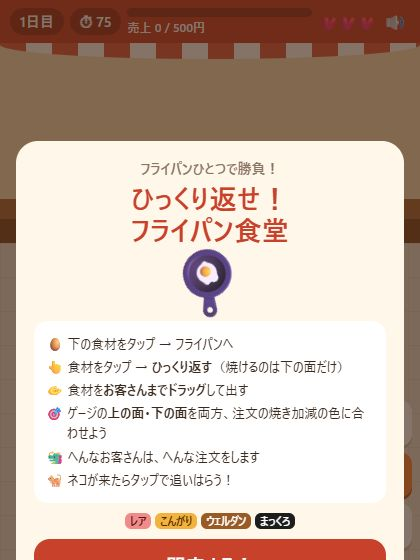
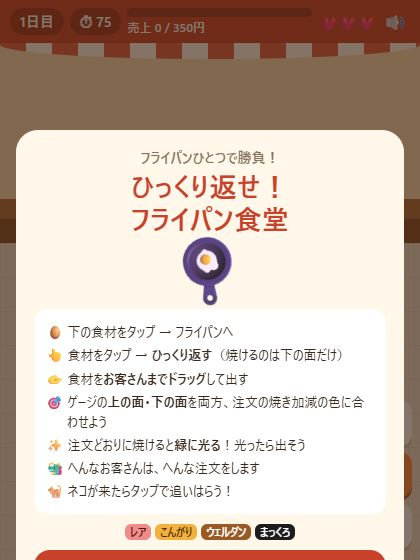
自動公開 / 更新: ひっくり返せ！フライパン食堂

Changed region(s): [[0.031, 0.2125, 0.9595, 1.0]]

diff --git a/apps/hikkuri-frypan/index.html b/apps/hikkuri-frypan/index.html
@@ -78,7 +78,7 @@ button{font-family:inherit;color:inherit;border:0;background:none;cursor:pointer
 .bars{width:96%;margin-top:3px;display:flex;flex-direction:column;gap:2px}
 .br{display:flex;align-items:center;gap:2px;font-size:9px;font-weight:900;color:#fff}
 .br b{width:11px;text-align:center;flex:none}
-.bar{position:relative;flex:1;height:7px;border-radius:4px;background:linear-gradient(90deg,#f4e7cc 0 21.4%,#ef8b8b 21.4% 35.7%,#bfb3a3 35.7% 39.3%,#f3b23d 39.3% 57.1%,#bfb3a3 57.1% 60%,#9a5a26 60% 75.7%,#6e6258 75.7% 84.3%,#111 84.3%);box-shadow:0 0 0 1px rgba(255,255,255,.35)}
+.bar{position:relative;flex:1;height:7px;border-radius:4px;background:linear-gradient(90deg,#f4e7cc 0 17.9%,#ef8b8b 17.9% 37.1%,#f3b23d 37.1% 58.6%,#9a5a26 58.6% 78.6%,#6e6258 78.6% 80%,#111 80%);box-shadow:0 0 0 1px rgba(255,255,255,.35)}
 .bar .m{position:absolute;top:-3px;width:3px;height:13px;margin-left:-1.5px;background:#fff;border-radius:2px;box-shadow:0 0 0 1px #000}
 .br.hot b{color:#ffb347}
 
@@ -184,6 +184,7 @@ button{font-family:inherit;color:inherit;border:0;background:none;cursor:pointer
         <li>👆 食材をタップ → <b>ひっくり返す</b>（焼けるのは下の面だけ）</li>
         <li>🫴 食材を<b>お客さんまでドラッグ</b>して出す</li>
         <li>🎯 ゲージの<b>上の面・下の面</b>を両方、注文の焼き加減の色に合わせよう</li>
+        <li>✨ 注文どおりに焼けると<b>緑に光る</b>！光ったら出そう</li>
         <li>🐲 へんなお客さんは、へんな注文をします</li>
         <li>🐈 ネコが来たらタップで追いはらう！</li>
       </ul>
@@ -211,17 +212,17 @@ const HEAT = [0.55, 1, 1.7];
 const SKEY = 'hikkuri-frypan';
 
 const ZONES = {
-  rare: { n: 'レア', lo: 30, hi: 50, c: '#ef8b8b', t: '#5a1414' },
-  mid: { n: 'こんがり', lo: 55, hi: 80, c: '#f3b23d', t: '#4a2a00' },
-  well: { n: 'ウェルダン', lo: 84, hi: 106, c: '#9a5a26', t: '#fff' },
-  char: { n: 'まっくろ', lo: 118, hi: 140, c: '#1d1d1d', t: '#fff' },
+  rare: { n: 'レア', lo: 25, hi: 52, c: '#ef8b8b', t: '#5a1414' },
+  mid: { n: 'こんがり', lo: 52, hi: 82, c: '#f3b23d', t: '#4a2a00' },
+  well: { n: 'ウェルダン', lo: 82, hi: 110, c: '#9a5a26', t: '#fff' },
+  char: { n: 'まっくろ', lo: 112, hi: 140, c: '#1d1d1d', t: '#fff' },
 };
 const FOODS = {
-  egg: { e: '🍳', n: '目玉焼き', rate: 13, price: 120, from: 1 },
-  pancake: { e: '🥞', n: 'ホットケーキ', rate: 10, price: 150, from: 1 },
-  gyoza: { e: '🥟', n: 'ギョーザ', rate: 15, price: 180, from: 2 },
-  steak: { e: '🥩', n: 'ステーキ', rate: 8, price: 300, from: 3 },
-  bacon: { e: '🥓', n: 'ベーコン', rate: 20, price: 140, from: 4 },
+  egg: { e: '🍳', n: '目玉焼き', rate: 10, price: 120, from: 1 },
+  pancake: { e: '🥞', n: 'ホットケーキ', rate: 8, price: 150, from: 1 },
+  gyoza: { e: '🥟', n: 'ギョーザ', rate: 12, price: 180, from: 2 },
+  steak: { e: '🥩', n: 'ステーキ', rate: 7, price: 300, from: 3 },
+  bacon: { e: '🥓', n: 'ベーコン', rate: 15, price: 140, from: 4 },
 };
 const CUST = [
   { e: '👦', n: '腹ペコ少年', want: ['mid'], line: ['こんがりで！', 'おなかすいた〜', 'はやくはやく！'], pay: 1, from: 1 },
@@ -240,8 +241,7 @@ const PERKS = [
   { id: 'tea', e: '🍵', n: 'お茶サービス', d: 'お客さんが30%長く待ってくれる', once: true },
   { id: 'smile', e: '😁', n: '笑顔の接客', d: 'パーフェクト時のチップ +40%', },
   { id: 'price', e: '💴', n: 'ねあげ', d: '全メニュー +15%', },
-  { id: 'bell', e: '🔔', n: 'ネコよけの鈴', d: 'ネコがあまり来なくなる', once: true, min: 1 },
-  { id: 'eye', e: '👀', n: 'プロの目', d: '注文どおりに焼けた食材が緑に光る', once: true },
+  { id: 'bell', e: '🔔', n: 'ネコよけの鈴', d: 'ネコがあまり来なくなる', once: true, min: 2 },
   { id: 'heart', e: '💖', n: '常連さん', d: '評判ハートの上限 +1（全回復）', once: true },
 ];
 const BOSS = {
@@ -308,7 +308,7 @@ for (let i = 0; i < 3; i++) {
 function newGame() {
   G = { day: 1, total: 0, hearts: 3, maxH: 3, perks: {}, heat: 1, running: false, items: [], seats: [null, null, null], spawnT: [0, 0, 0], cat: null, catT: 0, combo: 0 };
 }
-function quotaOf(d) { return 500 + (d - 1) * 420 + Math.max(0, d - 4) * 150; }
+function quotaOf(d) { return 350 + (d - 1) * 320 + Math.max(0, d - 4) * 120; }
 function priceMul() { return Math.pow(1.15, G.perks.price || 0); }
 
 /* ---------- pan slots ---------- */
@@ -349,7 +349,7 @@ function drawItem(it) {
   it.emo.style.filter = cookFilter(top);
   it.m[0].style.left = pct(top);
   it.m[1].style.left = pct(bot);
-  it.el.classList.toggle('smoke', bot > 108 && !it.lifted);
+  it.el.classList.toggle('smoke', bot > 112 && !it.lifted);
 }
 function flip(it) {
   if (it.flipping) return;
@@ -419,7 +419,7 @@ function spawn(i) {
   let want;
   if (t.mixed) { const z = shuffle(Object.keys(ZONES)); want = [z[0], z[1]]; }
   else { const z = pick(t.want); want = [z, z]; }
-  const base = Math.max(13, 27 - G.day * 1.4) * (t.pat || 1) * (G.perks.tea ? 1.3 : 1) + 70 / FOODS[food].rate;
+  const base = Math.max(20, 38 - G.day * 1.5) * (t.pat || 1) * (G.perks.tea ? 1.3 : 1) + 70 / FOODS[food].rate;
   G.seats[i] = { t, food, want, pat: base, patMax: base, leaving: false, line: pick(t.line) };
   renderSeat(i, true);
 }
@@ -446,7 +446,7 @@ function leave(i, face, text) {
 }
 function sideScore(v, z) {
   const Z = ZONES[z]; const d = v < Z.lo ? Z.lo - v : v > Z.hi ? v - Z.hi : 0;
-  return d === 0 ? 2 : d <= 10 ? 1 : 0;
+  return d === 0 ? 2 : d <= 15 ? 1 : 0;
 }
 function gradeOf(sides, want) {
   return Math.max(sideScore(sides[0], want[0]) + sideScore(sides[1], want[1]), sideScore(sides[0], want[1]) + sideScore(sides[1], want[0]));
@@ -483,7 +483,6 @@ function serve(it, i, x, y) {
     G.combo = 0; SFX.bad(); shake();
     pop('まずい！', pos, 'bad');
     leave(i, '🤮', s.t.strict ? '話にならん！' : pick(['なにこれ…', 'お金はらわない！', 'ナマじゃん！']));
-    loseHeart();
   }
 }
 function earn(v) { G.sales += v; }
@@ -507,13 +506,13 @@ function spawnCat() {
     removeCat();
   });
   panEl.appendChild(c);
-  G.cat = { el: c, target: G.items[i], t: 2.6 };
+  G.cat = { el: c, target: G.items[i], t: 3.5 };
   SFX.meow();
 }
 function removeCat() {
   if (G.cat) G.cat.el.remove();
   G.cat = null;
-  G.catT = rand(11, 18) * (G.perks.bell ? 2.2 : 1);
+  G.catT = rand(15, 24) * (G.perks.bell ? 2.2 : 1);
 }
 
 /* ---------- fx ---------- */
@@ -583,7 +582,7 @@ function update(dt) {
       cooking++;
     }
     drawItem(it);
-    if (G.perks.eye) it.el.classList.toggle('ready', G.seats.some(s => s && !s.leaving && s.food === it.key && gradeOf(it.sides, s.want) === 4));
+    it.el.classList.toggle('ready', G.seats.some(s => s && !s.leaving && s.food === it.key && gradeOf(it.sides, s.want) === 4));
   });
   setSizzle(cooking ? Math.min(0.12, 0.03 + cooking * 0.018 * hm) : 0);
   // customers
@@ -609,7 +608,7 @@ function update(dt) {
     }
   }
   // cat
-  if (G.day >= 2) {
+  if (G.day >= 3) {
     if (G.cat) {
       G.cat.t -= dt;
       if (!G.items.includes(G.cat.target) || G.cat.target.lifted) removeCat();
@@ -652,7 +651,7 @@ function dayIntro() {
   let news = '';
   if (G.day > 1 && nf.length) news += `<div class="news"><div class="t">新メニュー</div>${nf.map(f => `${f.e} ${f.n}`).join('　')}</div>`;
   if (G.day > 1 && nc.length) news += `<div class="news"><div class="t">新しいお客さん</div>${nc.map(c => `${c.e} ${c.n}${c.mixed ? '<br><small>表と裏で別々の焼き加減を注文してくる</small>' : c.strict ? '<br><small>パーフェクト以外はゆるさない。そのぶん高く払う</small>' : c.want[0] === 'char' ? '<br><small>まっくろこげが大好物</small>' : ''}`).join('<br>')}</div>`;
-  if (G.day === 2) news += `<div class="news"><div class="t">ちゅうい</div>🐈 ノラネコが食材をねらいに来るようになった！</div>`;
+  if (G.day === 3) news += `<div class="news"><div class="t">ちゅうい</div>🐈 ノラネコが食材をねらいに来るようになった！</div>`;
   $('#dayCard').innerHTML = `<h2>${G.day}日目</h2><div class="stat">今日のノルマ<b>${G.quota}円</b></div>${news}<button class="btn" id="bGo">開店！</button>`;
   show('#ovDay');
   $('#bGo').onclick = startDay;
@@ -666,7 +665,7 @@ function startDay() {
   G.seats = [null, null, null];
   for (let i = 0; i < 3; i++) renderSeat(i);
   G.spawnT = [0.4, 2.2, 4.5].map(v => v * Math.max(0.5, 1 - G.day * 0.08));
-  G.catT = rand(9, 15) * (G.perks.bell ? 2.2 : 1);
+  G.catT = rand(12, 18) * (G.perks.bell ? 2.2 : 1);
   setHeat(1);
   G.running = true;
   SFX.bell();
